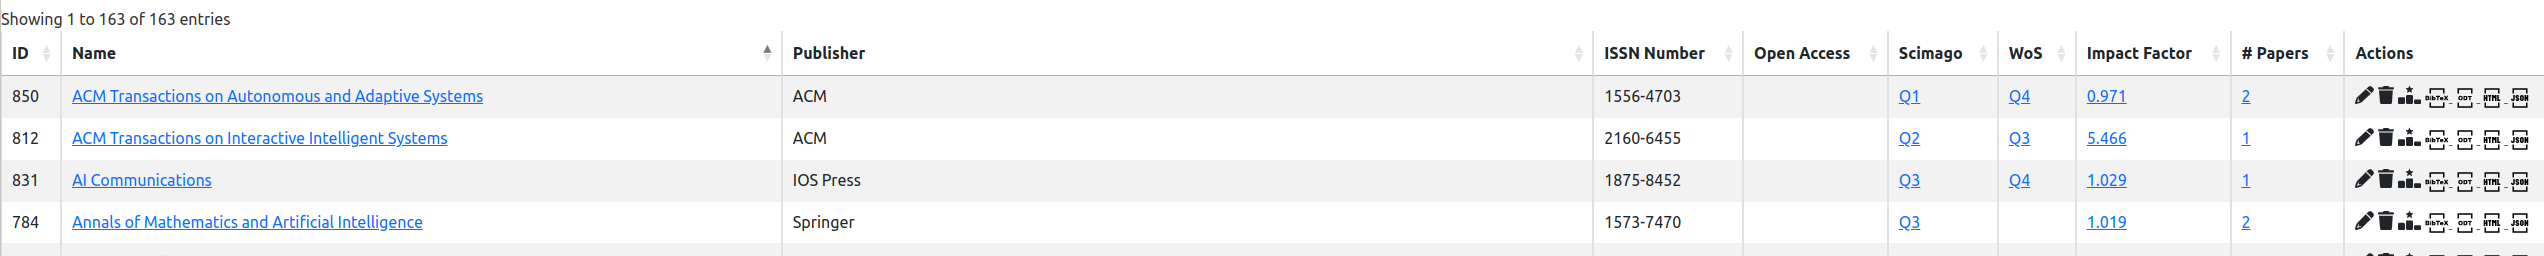
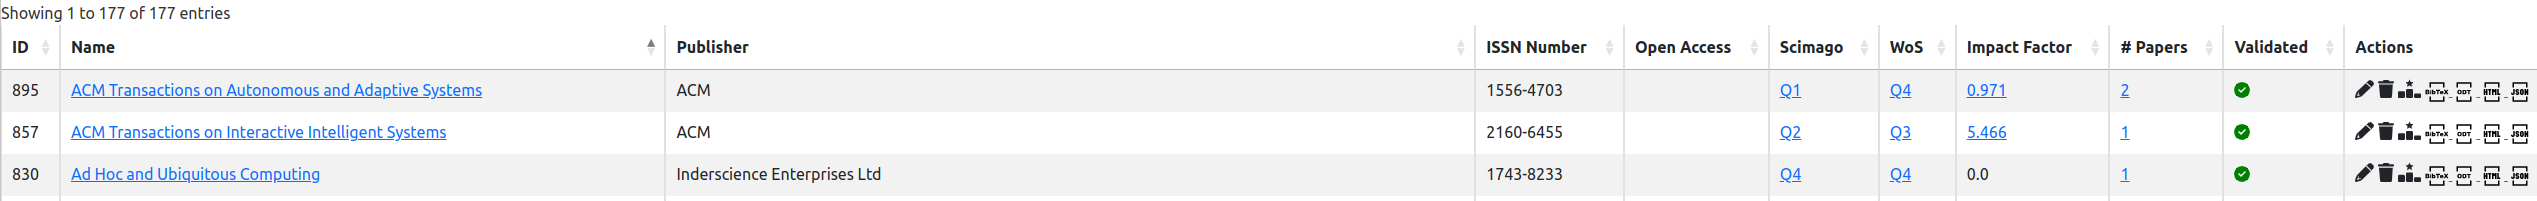
Adding the "journal validation" in the documentation.

diff --git a/docs/journals.md b/docs/journals.md
@@ -33,6 +33,7 @@ The columns of the table are the following:
 * `WoS`: indicates quartile of the journal on Web-of-Science website (see Section 4 for updating this ranking).
 * `Impact Factor`: indicates impact factor of the journal, usually provided by the publisher (see Section 4 for updating this impact factor).
 * `# Papers`: the count of papers that were published in this journal by a member of the research organization.
+* `Validated`: indicates if a local authority has validated the information associated to this journal. Added journals are not valid by default.
 * `Actions`: list of tools to be applied on a journal:
   * editing the journal information (see Section 3),
   * deletion of the journal,
@@ -60,6 +61,8 @@ The backend software provides a form for editing or adding a journal in the info
 * `WoS identifier of the journal`: it is the unique number associated to the journal of the [Web-of-Science](http://www.webofscience.com) system.
 
 > **_IMPORTANT NOTE 2:_** Without a WoS identifier, the information system of the laboratory will not get the quartiles from the Scimago website. You will have to enter them manually (see Section 4).
+
+* `Is the journal validated by a local authority?`: it is the boolean flag that indicates if a local authority has validated the information associated to the journal. Only a local authority (Director of a lab, etc.) may change this indicator.
 
 ## 4. Ranking of a journal
 

diff --git a/docs/index.md b/docs/index.md
@@ -2,7 +2,7 @@
 
 # Documentation of the Backend Software for the CIAD laboratory
 
-> **_Version:_** 2022-11-15
+> **_Version:_** 2022-12-14
 
 ## 1. Introduction
 
